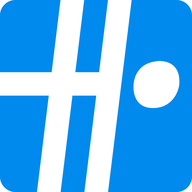
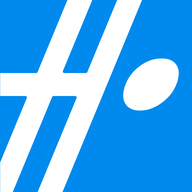
fix: stop 401 logout from wiping a fresh login, and ship the new mark assets
A logout 401 loop cleared the session right after sign-in; skip handshake/stale 401s. Use the current logos and logoFavicon-based icons on sidebar, envelope, pie, and favicons.

diff --git a/frontend/src/features/cardPie/presentation/CardPie.module.scss b/frontend/src/features/cardPie/presentation/CardPie.module.scss
@@ -4,9 +4,11 @@
 
 /** Shared center disc for left (logo) and right (status) CardPie. */
 $pie-center-indicator-size: 1.75rem;
-/** Видимый круг + hit центрального CardPie (моб. / десктоп), доля ширины пайа. */
+/** Видимый круг + hit центрального CardPie (десктоп), доля ширины пайа. */
 $pie-center-size-ratio: 22%;
-/** Desktop: глиф внутри круга = иконка тулбара × 1.25. */
+/** Мобильный центральный CardPie. */
+$pie-center-size-ratio-mobile: 24%;
+/** Desktop right pie: глиф статуса внутри круга = иконка тулбара × 1.25. */
 $pie-center-inner-icon-desktop: iconButton.$toolbar-icon-size-standard *
   iconButton.$toolbar-desktop-scale *
   1.25;
@@ -290,6 +292,10 @@ $pie-center-cart-blocked-inner-stop: (
     fill: currentColor;
   }
 
+  svg.pieCenterLogoMark :global([class*='fil']) {
+    fill: currentColor;
+  }
+
   /** Выше специфичности, чем `svg` выше — иначе иконка всегда 100% круга. */
   svg.pieCenterAffordanceIcon {
     width: iconButton.$toolbar-icon-size-standard;
@@ -344,7 +350,6 @@ $pie-center-cart-blocked-inner-stop: (
 }
 
 :global([data-shell-layout='desktop']) {
-  .hubContainer:not(.hubContainerRight) .pieCenterIcon svg,
   .hubContainerFill.hubContainerRight .pieCenterIcon svg {
     width: $pie-center-inner-icon-desktop;
     height: $pie-center-inner-icon-desktop;
@@ -353,6 +358,23 @@ $pie-center-cart-blocked-inner-stop: (
   .hubContainerFill.hubContainerRight .pieCenterIcon svg.pieCenterAffordanceIcon {
     width: $pie-center-inner-icon-desktop;
     height: $pie-center-inner-icon-desktop;
+  }
+}
+
+:global([data-shell-layout='mobile']) {
+  .hubContainer:not(.hubContainerRight) .pieCenterButton,
+  .hubContainerFill.hubContainerRight .pieCenterButton,
+  .hubContainerFill.hubContainerRight .pieCenterButtonPointer {
+    width: $pie-center-size-ratio-mobile;
+    height: $pie-center-size-ratio-mobile;
+  }
+
+  .hubContainerFill.hubContainerRight .pieCenterIndicator.cartBlocked {
+    @include preview-indicator-cart-blocked-ring(
+      calc(
+        #{$pie-center-size-ratio-mobile} * #{$pie-center-cart-blocked-ring-ratio}
+      )
+    );
   }
 }
 

diff --git a/frontend/src/shared/api/httpClient.ts b/frontend/src/shared/api/httpClient.ts
@@ -36,12 +36,45 @@ httpClient.interceptors.request.use((config) => {
   return config
 })
 
+function requestUrl(error: unknown): string {
+  if (!axios.isAxiosError(error) || !error.config) return ''
+  return `${error.config.baseURL ?? ''}${error.config.url ?? ''}`
+}
+
+function requestBearerToken(error: unknown): string | null {
+  if (!axios.isAxiosError(error) || !error.config?.headers) return null
+  const headers = error.config.headers
+  const raw =
+    typeof headers.get === 'function'
+      ? headers.get('Authorization')
+      : (headers.Authorization ?? headers.authorization)
+  if (typeof raw !== 'string') return null
+  const match = /^Bearer\s+(.+)$/i.exec(raw.trim())
+  return match?.[1] ?? null
+}
+
+function isAuthHandshakeUrl(url: string): boolean {
+  return /\/api\/(login|register|logout)(?:\?|$)/.test(url)
+}
+
 httpClient.interceptors.response.use(
   (response) => response,
   (error) => {
     if (axios.isAxiosError(error) && error.response?.status === 401) {
-      clearAuthSession()
-      unauthorizedHandler?.()
+      const url = requestUrl(error)
+      if (!isAuthHandshakeUrl(url)) {
+        const currentToken = readAuthSession()?.token ?? null
+        const requestToken = requestBearerToken(error)
+        const isStaleRequest =
+          Boolean(currentToken) &&
+          Boolean(requestToken) &&
+          currentToken !== requestToken
+
+        if (!isStaleRequest && (currentToken || requestToken)) {
+          clearAuthSession()
+          unauthorizedHandler?.()
+        }
+      }
     }
 
     return Promise.reject(error)

diff --git a/frontend/src/features/cardSectionEditor/presentation/SectionEditorSidebar/SectionEditorSidebar.module.scss b/frontend/src/features/cardSectionEditor/presentation/SectionEditorSidebar/SectionEditorSidebar.module.scss
@@ -23,30 +23,45 @@
   color: var(--logo-color, #008aed);
 
   svg {
+    display: block;
     width: 100%;
     height: 100%;
+  }
+
+  :global([class*='fil']) {
+    fill: currentColor;
   }
 }
 
 .sectionEditorSidebarLogoFull {
   position: absolute;
   left: 2.5rem;
-  bottom: 0;
+  bottom: 1.25rem;
   width: 10rem;
   height: 2rem;
   opacity: 0.5;
-  --logo-full-orange: #{$color-app-sidebar-icon};
-  --logo-full-blue: #{$color-app-sidebar-icon};
+  color: $color-app-sidebar-icon;
   transform: rotate(270deg);
   transform-origin: left bottom;
 
   svg {
+    display: block;
     width: 100%;
     height: 100%;
   }
-}
 
-// .sectionEditorSidebarLogoFull {
+  :global(.fil0),
+  :global(.fil1),
+  :global(.fil2),
+  :global(.fil3) {
+    fill: currentColor;
+  }
+
+  /** Knockout «Hi» on the leading square — not the same fill as the mark. */
+  :global(.fil4) {
+    fill: #fff;
+  }
+}
 //   flex-shrink: 0;
 //   width: 1.4rem;
 //   height: 10rem;

diff --git a/frontend/src/features/cardPie/presentation/CardPie.tsx b/frontend/src/features/cardPie/presentation/CardPie.tsx
@@ -4,7 +4,6 @@ import { AROMA_IMAGES_THUMB } from '@entities/aroma/domain/types'
 import { MONTH_NAMES } from '@entities/date/constants'
 import {
   IconUsers,
-  IconLogoRound,
   IconCart,
   IconHistoryV2,
   IconSectionMenuCardphoto,
@@ -37,6 +36,7 @@ import {
   expandEnvelopeRecipientsForBg,
 } from '../domain/pieScatteredBackground'
 import { PieScatteredBackgroundText } from './PieScatteredBackgroundText'
+import LogoMark from '@shared/assets/logo/logo.svg?react'
 import styles from './CardPie.module.scss'
 
 const STROKE_WIDTH = 24
@@ -975,7 +975,7 @@ export const CardPie: React.FC<CardPieProps> = ({
             }}
           >
             {station === 'left' ? (
-              <IconLogoRound aria-hidden />
+              <LogoMark aria-hidden className={styles.pieCenterLogoMark} />
             ) : (
               <span
                 className={clsx(

diff --git a/frontend/src/features/cardSectionEditor/presentation/MobileFactoryToolbar/MobileFactoryToolbarShell.module.scss b/frontend/src/features/cardSectionEditor/presentation/MobileFactoryToolbar/MobileFactoryToolbarShell.module.scss
@@ -409,6 +409,28 @@
     flex: 0 0 auto;
     width: auto;
   }
+
+  /**
+   * Peek postcardEdit is in an absolute left slot. `.rowUpper` already has
+   * factory row padding; slot `left: 1rem` was a second inset.
+   */
+  :global([data-shell-layout='mobile']) & :global([class*='sideLeft']) {
+    left: 0;
+  }
+
+  :global([data-shell-layout='mobile']) & :global([class*='sideRight']) {
+    right: 0;
+  }
+
+  :global([class*='sideLeft']) :global(
+      [class*='toolbar']:not([class*='toolbarKey']):not(
+          [class*='toolbarGroup']
+        ):not([class*='toolbarBadge']):not([class*='toolbarIcon'])
+    ) {
+    flex: 0 0 auto;
+    width: auto;
+    justify-content: flex-start;
+  }
 }
 
 /** Section upper band: full slot width; row padding keeps icon edge insets. */

diff --git a/frontend/src/features/cardSectionEditor/presentation/SectionEditorSidebar/SectionEditorSidebar.tsx b/frontend/src/features/cardSectionEditor/presentation/SectionEditorSidebar/SectionEditorSidebar.tsx
@@ -1,15 +1,16 @@
 import React from 'react'
-import { IconLogoFull, IconLogoRound } from '@shared/ui/icons'
+import LogoMark from '@shared/assets/logo/logo.svg?react'
+import LogoFull from '@shared/assets/logo/logoFull.svg?react'
 import styles from './SectionEditorSidebar.module.scss'
 
 export const SectionEditorSidebar: React.FC = () => {
   return (
     <div className={styles.sectionEditorSidebar}>
       <div className={styles.sectionEditorSidebarLogo}>
-        <IconLogoRound aria-hidden />
+        <LogoMark aria-hidden />
       </div>
       <div className={styles.sectionEditorSidebarLogoFull}>
-        <IconLogoFull aria-hidden />
+        <LogoFull aria-hidden />
       </div>
     </div>
   )

diff --git a/frontend/src/features/auth/application/hooks/useAuthInit.ts b/frontend/src/features/auth/application/hooks/useAuthInit.ts
@@ -37,6 +37,10 @@ export const useAuthInit = () => {
             dispatch(setAuth({ user, token: session.token }))
           }
         } catch (error) {
+          const latestToken = readAuthSession()?.token
+          if (latestToken && latestToken !== session.token) {
+            return
+          }
           if (isAuthSessionInvalid(error)) {
             clearAuthSession()
             if (!cancelled) {

diff --git a/frontend/src/app/listeners/authListener.ts b/frontend/src/app/listeners/authListener.ts
@@ -101,7 +101,7 @@ authListenerMiddleware.startListening({
 authListenerMiddleware.startListening({
   actionCreator: logout,
   effect: async () => {
-    if (isHttpAuthMode()) {
+    if (isHttpAuthMode() && readAuthSession()?.token) {
       try {
         await logoutUserApi()
       } catch {

diff --git a/frontend/src/features/envelope/presentation/Envelope.module.scss b/frontend/src/features/envelope/presentation/Envelope.module.scss
@@ -660,7 +660,7 @@
   flex: 0 0 auto;
   width: 100%;
   min-height: 2.5rem;
-  background-image: url('@shared/assets/logo/logo_fullname_v02.svg');
+  background-image: url('@shared/assets/logo/logoFull.svg');
   background-repeat: no-repeat;
   background-size: contain;
   transform: scale(1.2);
